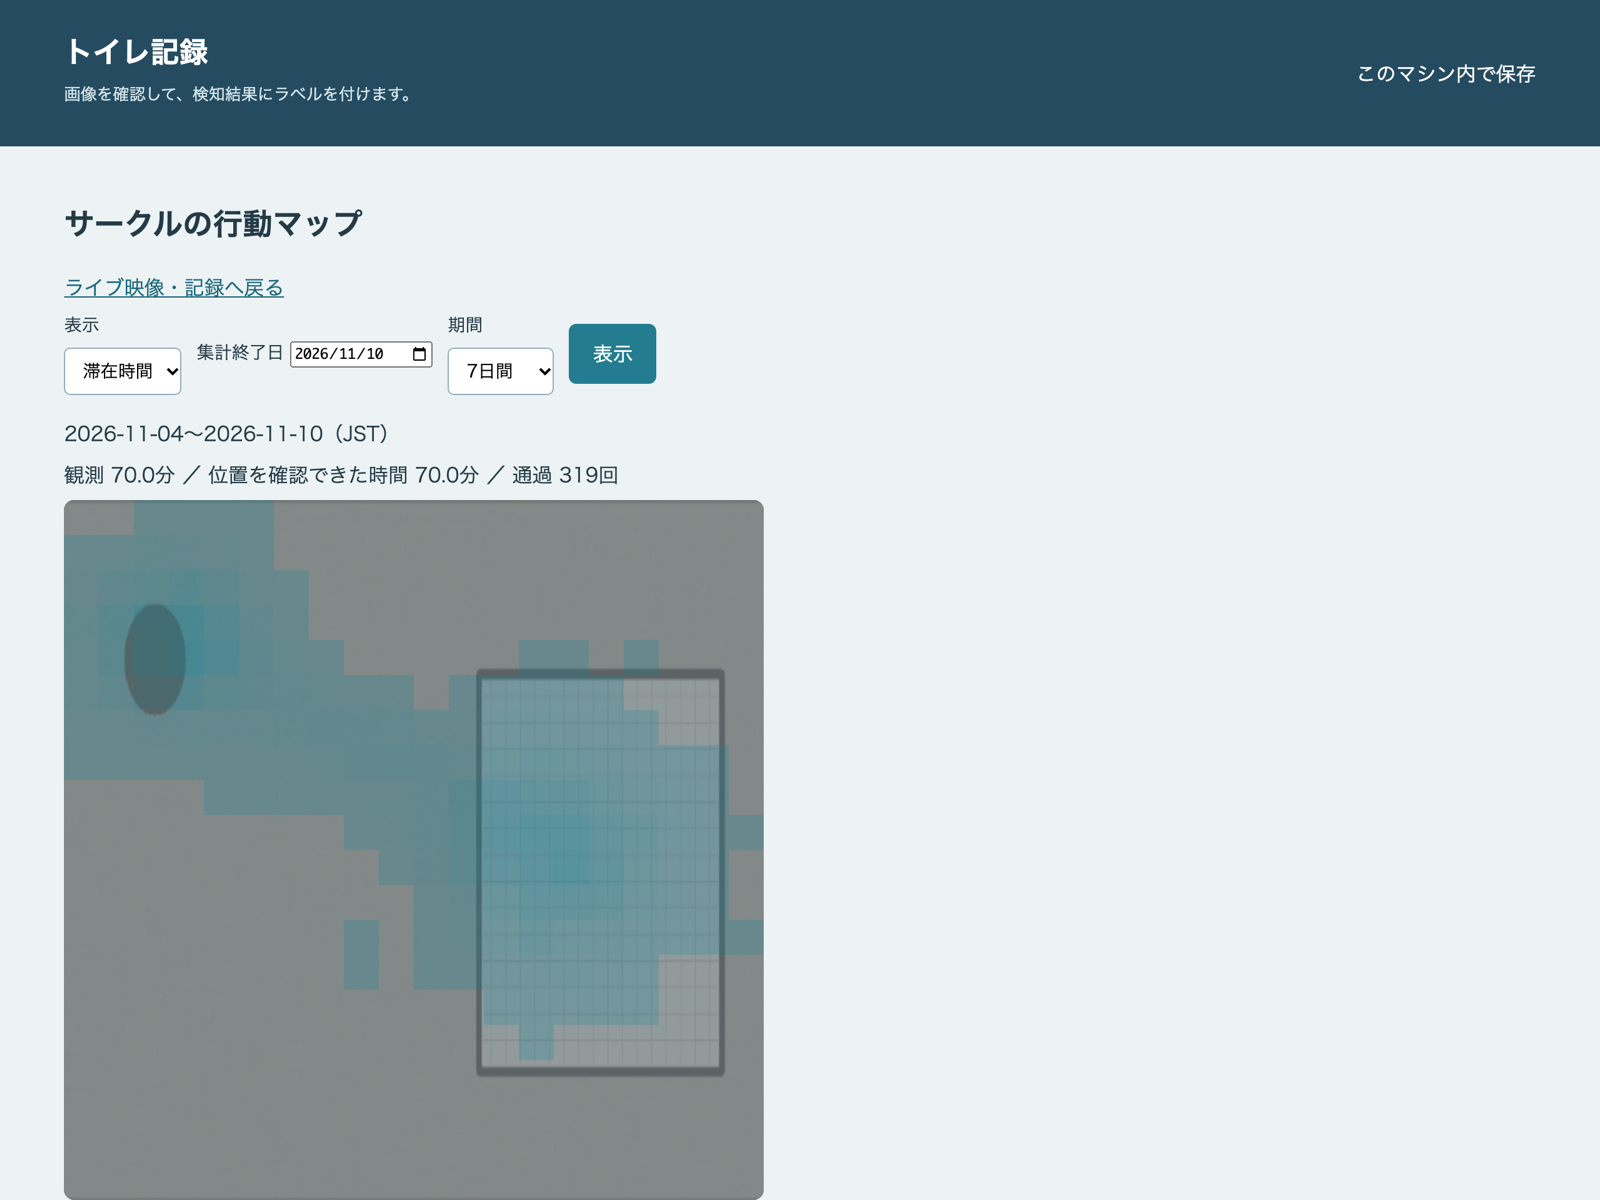
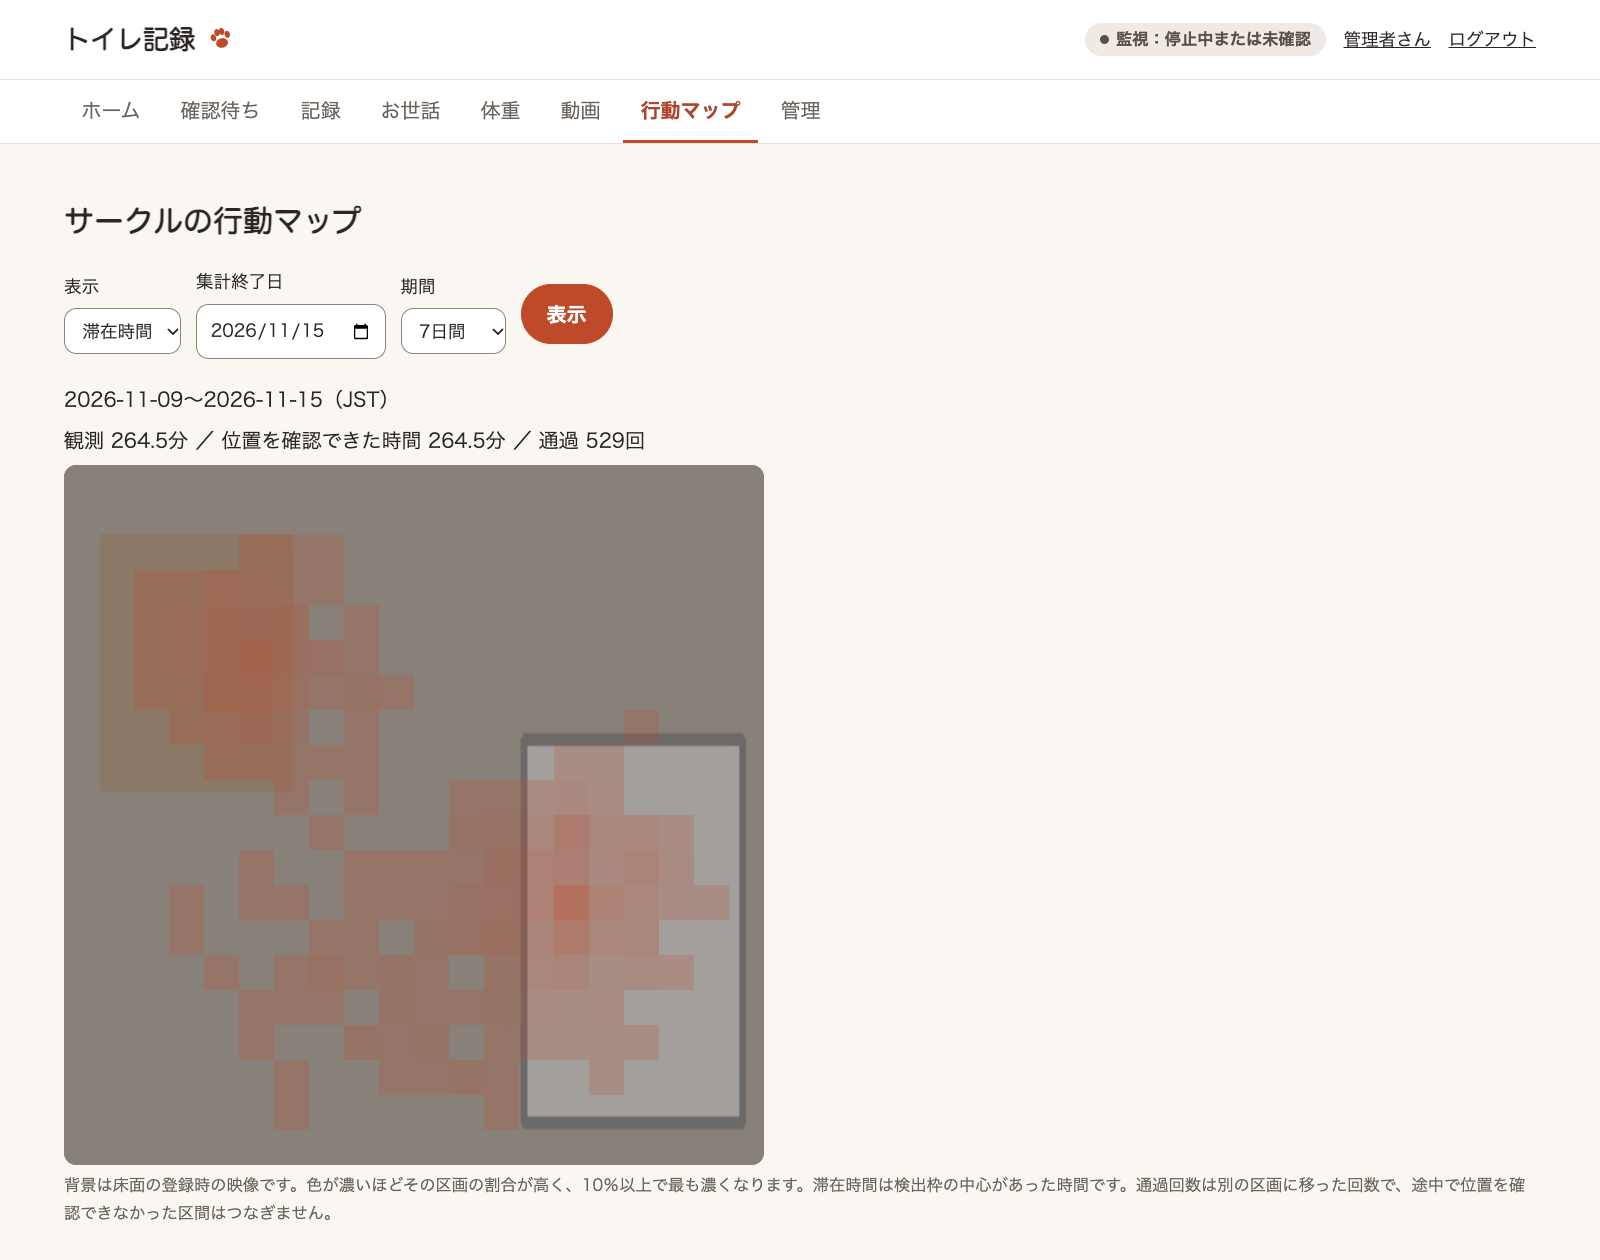
docs: 残りのスクリーンショット6枚を新しいデザインで撮り直す (#151)
* fix: 箇条書きの知らせで、行頭の点が左の線に重ならないようにする

* docs: 残りのスクリーンショット6枚を新しいデザインで撮り直す

- 行動マップ、動画の評価の候補、判定器とモデル（状態・これまでの判定とプランの使用量・比較と録画ごとの回答・評価セット）
- 評価の候補の欄が「そのほかの操作」の中にあることを説明に書く

Refs #141

diff --git a/src/poop_detector/gui/templates/style.css b/src/poop_detector/gui/templates/style.css
@@ -46,6 +46,7 @@ button,a.button{font:inherit;font-weight:600;padding:11px 20px;border:1px solid 
 a.button{display:inline-block;text-decoration:none}
 button.secondary,a.button.secondary{background:var(--surface);color:var(--text);border-color:var(--border-strong)}button.ghost,a.button.ghost{background:none;color:var(--link);border-color:transparent;padding-inline:8px}button:hover,a.button:hover{filter:brightness(.94)}button:disabled{cursor:not-allowed;opacity:.6}
 .message,.saved{background:var(--success-bg);padding:12px;margin-bottom:16px;border-left:4px solid var(--success-border);border-radius:var(--radius-small)}.message-error,.error{background:var(--error-bg);padding:12px;margin-bottom:16px;border-left:4px solid var(--error-border);border-radius:var(--radius-small)}
+ul.message,ul.message-error{padding-left:34px}
 .capacity-warning{background:var(--warn-bg);color:var(--warn-text);padding:12px;border-left:4px solid var(--warn-border);border-radius:var(--radius-small)}
 details{margin-top:24px;padding:20px}summary{cursor:pointer;font-weight:bold}details form{margin-top:18px}.empty{padding:50px 24px;text-align:center}
 table{border-collapse:collapse}th,td{text-align:left;padding:6px 10px}

diff --git a/docs/screens.md b/docs/screens.md
@@ -73,7 +73,7 @@ GUI の画面の配置と遷移、CLI に残す操作をまとめます（Issue 
 
 ## 動画 › 評価の候補
 
-動画の画面の下に、判定器の比較に使う評価の候補を選ぶ欄があります（`gui/templates/_benchmark_candidate.html`、`video/benchmark_candidates.py`）。
+動画の画面の「そのほかの操作」を開くと、判定器の比較に使う評価の候補を選ぶ欄があります（`gui/templates/_benchmark_candidate.html`、`video/benchmark_candidates.py`）。
 
 - 出すのは、保存済みで、排泄の種類（排便・排尿・両方）か排泄なしのラベルを付けた動画だけ。ラベルのない動画と「判断できない」の動画には、ラベルを保存すると選べる旨だけを出す
 - 「選ばない」「評価に入れる」「評価から除く」を選び、撮影の条件のタグ（昼間・夜間（赤外線）・メッシュ付きトレー・遮蔽・既存の跡と新しい排泄）にチェックを付ける。ほかの条件は「、」で区切って書く（1つ30文字・10個まで）。「一部欠落」「トレー外」は `benchmark-dataset create` が録画の情報から自動で付ける
